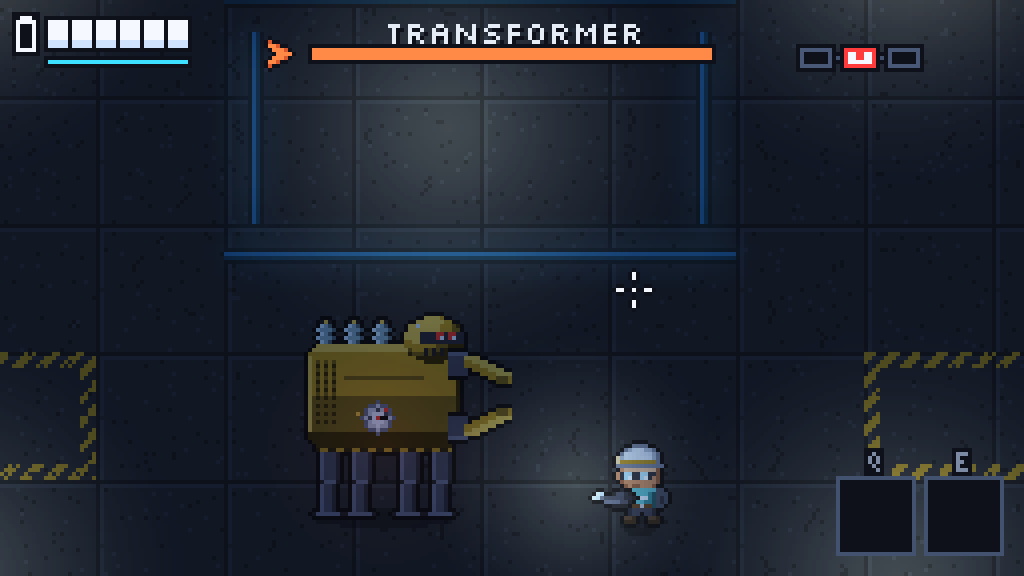
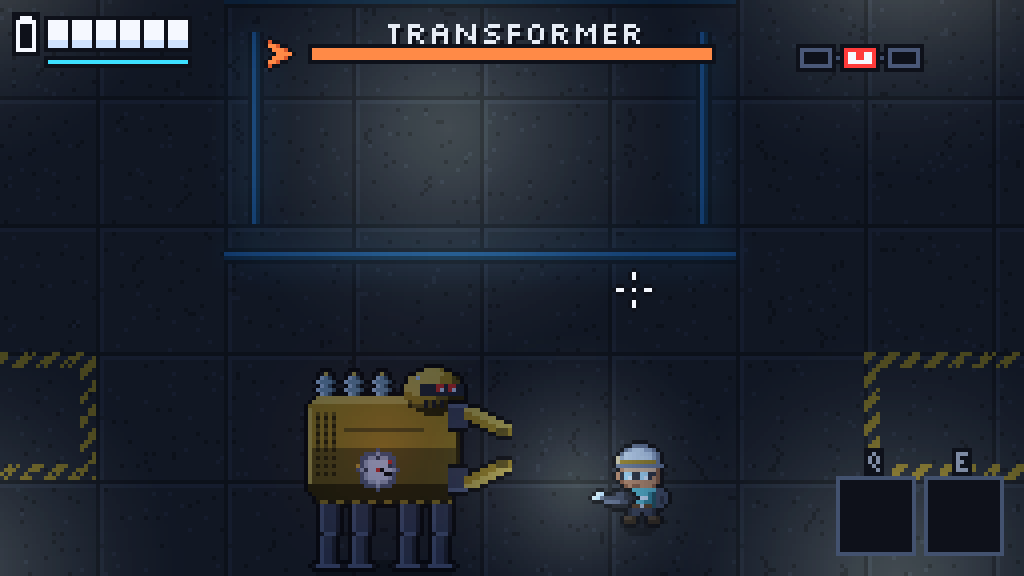
Address review: center each chassis on its hit circle, keep crowns whole
Each chassis gets headroom on its canvas and a feet anchor derived from its
body center, so the hit circle covers the body. The Grid Core's reactor burns
amber instead of Burst magenta, gauges are larger, footfall dust uses each
chassis' feet, and arm recolors are cached by part name.

Changed region(s): [[0.2812, 0.5312, 0.5, 1.0]]

diff --git a/src/overload/art/pixel/regulators.py b/src/overload/art/pixel/regulators.py
@@ -35,14 +35,28 @@ SHELLS = {
     "grid_core": ("px.core.0", "px.core.1", "px.core.2", "px.core.3"),
 }
 SHELLS["regulator"] = SHELLS["linesman"]
-SIZE = (68, 50)
+SIZE = (68, 54)
+HEAD = 4  # headroom above the tallest part (crown, cab, insulators) on rising steps
 CX = 34
 # Per chassis, in the standing pose (a walking body rides a pixel higher on passing steps):
 # where the gauge sits (center, radius), where the protocol arms mount (the right shoulder,
-# mirrored for the left), and how far below the body center its feet are.
-GAUGE = {"linesman": ((CX, 29), 3), "transformer": ((CX - 2, 25), 3), "grid_core": ((CX, 26), 3)}
-SHOULDER = {"linesman": (14, 25), "transformer": (19, 20), "grid_core": (13, 17)}
-FEET = {"linesman": 20, "transformer": 18, "grid_core": 22}
+# mirrored for the left), and the canvas row of the body's center (the Linesman's torso,
+# the Transformer's tank, the Grid Core's sphere). The body center sits on the sim position,
+# so the hit circle covers the body and the legs reach below it.
+GAUGE = {
+    "linesman": ((CX, 29 + HEAD), 4),
+    "transformer": ((CX - 2, 25 + HEAD), 4),
+    "grid_core": ((CX, 29 + HEAD), 3),  # small, under the reactor window
+}
+SHOULDER = {
+    "linesman": (14, 25 + HEAD),
+    "transformer": (19, 20 + HEAD),
+    "grid_core": (13, 17 + HEAD),
+}
+CENTER = {"linesman": 26 + HEAD, "transformer": 20 + HEAD, "grid_core": 18 + HEAD}
+# How far below the sim position the feet (the image's bottom edge) are. The rendered image
+# has a one pixel outline pad, so its bottom is SIZE[1] + 1 rows below the canvas top.
+FEET = {kind: SIZE[1] + 1 - row for kind, row in CENTER.items()}
 _HOSTILE = ("px.hostile.0", "px.hostile.1", "px.hostile.2", "px.hostile.3")
 
 
@@ -96,7 +110,7 @@ _LINESMAN_LEG = rig.LegStyle(
 
 
 def _linesman(canvas, step, charged: bool, overload: bool) -> None:
-    top = 0 if rig.rising(step) else 1
+    top = HEAD + (0 if rig.rising(step) else 1)
     # Two long legs.
     hips = top + 35
     for half, hip in ((0, CX - 8), (1, CX + 4)):
@@ -141,7 +155,7 @@ def _linesman(canvas, step, charged: bool, overload: bool) -> None:
     _rect(canvas, CX - 6, top + 19, 13, 2, "R")
     _rect(canvas, CX - 6, top + 21, 13, 1, "m")
     _disc(canvas, CX + 3, top + 15, 3.2, "v")
-    _disc(canvas, CX + 3, top + 15, 2.0, "e" if overload else "E")
+    _disc(canvas, CX + 3, top + 15, 2.0, "J" if overload else "E")
     paint(canvas, ["w"], CX + 2, top + 14)
     paint(canvas, ["Q"], CX - 4, top + 12)
 
@@ -155,7 +169,7 @@ _TRANSFORMER_LEG = rig.LegStyle(
 
 
 def _transformer(canvas, step, charged: bool, overload: bool) -> None:
-    top = 6 if rig.rising(step) else 7
+    top = HEAD + (6 if rig.rising(step) else 7)
     hips = top + 27
     # Four stubby legs on a trot: diagonal pairs step together.
     for i, hip in enumerate((CX - 16, CX - 8, CX + 4, CX + 12)):
@@ -191,7 +205,7 @@ def _transformer(canvas, step, charged: bool, overload: bool) -> None:
     hx, hy = CX + 5, top - 7
     paint(canvas, shaded_ellipse(15, 12, "RroO"), hx, hy)
     _rect(canvas, hx + 4, hy + 4, 11, 3, "v")
-    eye = "e" if overload else "E"
+    eye = "J" if overload else "E"
     paint(canvas, [eye + eye + "." + eye + eye, eye + "w." + eye + "w"], hx + 8, hy + 4)
     for x in range(hx + 5, hx + 14, 2):
         paint(canvas, ["d", "d"], x, hy + 8)
@@ -205,7 +219,7 @@ def _transformer(canvas, step, charged: bool, overload: bool) -> None:
 
 
 def _grid_core(canvas, step, charged: bool, overload: bool) -> None:
-    top = 4 if rig.rising(step) else 5
+    top = HEAD + (4 if rig.rising(step) else 5)
     center = (CX, top + 13)
     # Three arched legs, lifting one at a time.
     for i, (hip, knee, foot) in enumerate(
@@ -238,13 +252,15 @@ def _grid_core(canvas, step, charged: bool, overload: bool) -> None:
     for x in range(CX - 11, CX + 12, 4):
         paint(canvas, ["d"], x, top + 16)
     glow = 4.6 if (charged or overload) else 3.6
-    _disc(canvas, center[0] + 1, center[1] - 2, glow + 1.2, "d")
-    _disc(canvas, center[0] + 1, center[1] - 2, glow, "U")
-    _disc(canvas, center[0] + 1, center[1] - 2, glow - 1.8, "u")
-    paint(canvas, ["w"], center[0], center[1] - 3)
+    # The reactor burns hot amber, kept off Burst's magenta so it never reads as a Burst
+    # core to steal (art direction rule 4). Only its crown tips carry magenta, as before.
+    _disc(canvas, center[0] + 1, center[1] - 3, glow + 1.2, "d")
+    _disc(canvas, center[0] + 1, center[1] - 3, glow, "j")
+    _disc(canvas, center[0] + 1, center[1] - 3, glow - 1.8, "J")
+    paint(canvas, ["w"], center[0], center[1] - 4)
     # A ring of eyes above the core.
     for dx, dy in ((-7, -6), (-3, -9), (5, -9), (9, -6)):
-        paint(canvas, ["e" if overload else "E"], center[0] + dx, center[1] + dy)
+        paint(canvas, ["J" if overload else "E"], center[0] + dx, center[1] + dy)
     if overload:  # glowing cracks through the shell
         for x, y in ((-10, -4), (-9, -3), (-9, -2), (-8, -1), (8, 2), (9, 3), (10, 4), (-6, 6)):
             paint(canvas, ["E"], center[0] + x, center[1] + y)
@@ -262,9 +278,18 @@ def body(kind: str, step: int | None = None, charged: bool = False, overload: bo
     return render(rows_of(canvas), legend(kind))
 
 
+_ARMS = {
+    "clamp": actors.clamp_arm,
+    "plate": actors.insulate_plate,
+    "fin": lambda: actors.fin(False),
+    "fin_lit": lambda: actors.fin(True),
+}
+
+
 @cache
-def _recolored(image: pygame.Surface, kind: str) -> pygame.Surface:
+def _recolored(part: str, kind: str) -> pygame.Surface:
     """A protocol arm in this chassis' shell colors (the arms are drawn in hostile orange)."""
+    image = _ARMS[part]()
     if SHELLS[kind] == _HOSTILE:
         return image
     swapped = image.copy()
@@ -285,15 +310,15 @@ def _posed(
     sx, sy = CX + 1 + dx, dy + 1 + _bob(step)
     front = []  # drawn over the body
     if protocol == "clamp":
-        arm = _recolored(actors.clamp_arm(), kind)
+        arm = _recolored("clamp", kind)
         front.append((arm, (sx - 3, sy - arm.get_height() // 2)))
     elif protocol == "insulate":
-        plate = _recolored(actors.insulate_plate(), kind)
+        plate = _recolored("plate", kind)
         pw, ph = plate.get_size()
         front.append((plate, (sx - 2, sy - ph // 2 + 2)))
         canvas.blit(plate, (2 * CX + 2 - sx - pw + 2, sy - ph // 2 + 2))
     elif protocol == "oscillate":
-        right = _recolored(actors.fin(lit), kind)
+        right = _recolored("fin_lit" if lit else "fin", kind)
         fw, fh = right.get_size()
         front.append((right, (sx - 1, sy - fh // 2)))
         canvas.blit(flipped(right), (2 * CX + 2 - sx - fw + 1, sy - fh // 2))

diff --git a/tests/test_pixel_art.py b/tests/test_pixel_art.py
@@ -513,3 +513,59 @@ def test_footfalls_kick_dust_and_short_moves_are_walks(headless_pygame) -> None:
     view._walk(world)
     assert view.gaits[9].stride > 0
     assert view.gaits[9].dx > 0, "faces the way it walked"
+
+
+def test_each_chassis_body_sits_on_its_hit_circle(headless_pygame) -> None:
+    """Drawn at its feet anchor, each chassis' body center lands on the sim position, so
+    shots that visibly hit the body hit the circle. Measured on the body's own colors."""
+    from overload.art.pixel import regulators
+    from overload.game.view import RIVAL_FEET
+
+    for kind in regulators.KINDS:
+        image = regulators.body(kind)
+        shell = {rgb(token) for token in regulators.SHELLS[kind]}
+        rows = [
+            y
+            for y in range(image.get_height())
+            for x in range(image.get_width())
+            if tuple(image.get_at((x, y)))[:3] in shell
+        ]
+        center = (min(rows) + max(rows)) / 2  # the shell's extent
+        offset = RIVAL_FEET[kind] - (image.get_height() - center)  # body center below sim y
+        assert abs(offset) <= 6, (kind, offset)
+
+
+def test_no_chassis_is_cut_off_at_the_top(headless_pygame) -> None:
+    from overload.art.pixel import regulators
+
+    for kind in regulators.KINDS:
+        for step in (None, *range(8)):
+            for charged in (False, True):
+                image = regulators.body(kind, step, charged)
+                # Row 1 is the canvas' first row (row 0 is the outline pad). Only the
+                # outline of something below may reach it, never the art itself.
+                top = {
+                    tuple(image.get_at((x, 1)))
+                    for x in range(image.get_width())
+                    if image.get_at((x, 1)).a
+                }
+                assert top <= {(*rgb("px.outline"), 255)}, (kind, step)
+
+
+def test_the_legacy_regulator_draws_as_the_linesman(headless_pygame) -> None:
+    from overload.art.pixel import regulators
+
+    a = regulators.regulator("clamp", False, 0.3, kind="regulator")
+    b = regulators.regulator("clamp", False, 0.3, kind="linesman")
+    assert pygame.image.tobytes(a, "RGBA") == pygame.image.tobytes(b, "RGBA")
+
+
+def test_the_regulator_steps_forward_when_it_walks_forward() -> None:
+    from overload.game.view import Gait, rival_step
+
+    right = Gait(0.0, 0.0, stride=5.0, moved=1.0, dx=1.0)
+    assert rival_step(right, facing_left=False) == rival_step(
+        Gait(0.0, 0.0, stride=5.0, moved=1.0, dx=-1.0), facing_left=True
+    )
+    vertical = Gait(0.0, 0.0, stride=5.0, moved=1.0, dx=0.01)  # inside the dead zone
+    assert rival_step(vertical, False) == rival_step(vertical, True)

diff --git a/src/overload/game/view.py b/src/overload/game/view.py
@@ -108,7 +108,7 @@ SCAN = (0, 1, 2, 3, 3, 2, 1, 0)  # the Sentry's eye sweeping its visor
 RECOIL_TICKS = 12
 BEAM_TICKS = 10
 # Heavy walkers kick up dust when a foot comes down: (kind, feet below center, dust count).
-FOOTFALLS = {"breaker": (12, 3), "regulator": (20, 5)}
+FOOTFALLS = {"breaker": (12, 3), "regulator": (20, 5)}  # the Regulator's feet: per chassis
 FOOT_DOWN = (2, 6)  # the walk steps where a foot lands (art/pixel/rig.py)
 
 
@@ -354,6 +354,8 @@ class PixelView:
             step = walk_step(gait, kind)
             if kind in FOOTFALLS and step != self.steps.get(key) and step in FOOT_DOWN:
                 feet, count = FOOTFALLS[kind]
+                if key == RIVAL_GAIT:
+                    feet = RIVAL_FEET.get(world.rival.kind, feet)
                 self._burst(x, y + feet, count, "px.wall.3", 0.5)
             self.steps[key] = step
         for key in list(self.gaits):
@@ -815,7 +817,7 @@ class PixelView:
                     icon = pygame.transform.scale_by(
                         effects.protocol_icon(POSES[rival.protocol]), 2
                     )
-                    top = v(rival.x, rival_feet[1] - image.get_height() - 6)
+                    top = v(rival.x, rival_feet[1] - image.get_height() - 4)
                     screen.blit(icon, icon.get_rect(center=(round(top[0]), round(top[1]))))
 
             drawables.append((rival_feet[1], draw_rival))

diff --git a/docs/ART_AND_AUDIO_DIRECTION.md b/docs/ART_AND_AUDIO_DIRECTION.md
@@ -136,8 +136,8 @@ Status: **done** means drawn, in the game or style frame, and on the contact she
 | ID | Asset | Look | Motion and tells | Pri | Status |
 | --- | --- | --- | --- | --- | --- |
 | CH-01 | Surge | Lineworker: white hard hat with a headlamp and reflective band, goggles, teal jacket with a reflective strip, utility belt, battery pack with two power sockets, siphon glove, spark caster | 2-frame idle, 4-frame walk, dodge ghosts, hit flicker, headlamp light follows the aim | P0 | Done |
-| CH-02 | Regulator | Orange machine with a big gauge face, ceramic insulator shoulders, vents, status lights, hazard-striped hip, treads. The needle tracks the Surge | Pose per protocol, protocol boot cue | P0 | Done (poses and boot cue: shield ring, protocol icon and sting) |
-| CH-02d | Regulator chassis (Nov 17, redrawn the same night) | One chassis per sector chamber, each with its own silhouette (Adit: "hate the main bosses"). Linesman: a tall orange biped with a utility pole crossarm of three insulators over a hooded lamp head, whose insulator tips light before its ring. Transformer: a wide brass quadruped tank with radiator fins, coil bands, three bushings and a cab head on its front corner, whose bushings light before its quake. Grid Core: a violet reactor sphere with a crown of magenta pylons, a ring of eyes and a magenta core window, on three arched legs. Overloaded, its shell cracks with red light and its core blazes. The protocol arms (pincers, plates, fins) take each shell's colors and the gauge stays on every chassis, so it reads as the same rival | Walk cycles, protocol pose, signature charge, overload | P0 | Done |
+| CH-02 | Regulator | One rival on three chassis (CH-02d), each walking on its own legs. Every chassis keeps a gauge with a needle that tracks the Surge (radius 4 on the Linesman and Transformer, 3 under the Grid Core's reactor window, about 16 directions), and the protocol arms below. The Grid Core's reactor burns hot amber, kept off Burst's magenta so the boss never reads as a Burst core to steal | Pose per protocol, protocol boot cue, signature charge | P0 | Done (redrawn Nov 18) |
+| CH-02d | Regulator chassis (Nov 17, redrawn the same night) | One chassis per sector chamber, each with its own silhouette (Adit: "hate the main bosses"). Linesman: a tall orange biped with a utility pole crossarm of three insulators over a hooded lamp head, whose insulator tips light before its ring. Transformer: a wide brass quadruped tank with radiator fins, coil bands, three bushings and a cab head on its front corner, whose bushings light before its quake. Grid Core: a violet reactor sphere with a crown of magenta-tipped pylons, a ring of eyes and a hot amber reactor window, on three arched legs. Overloaded, its shell cracks with red light, its eyes and core burn hotter. The protocol arms (pincers, plates, fins) take each shell's colors and the gauge stays on every chassis, so it reads as the same rival | Walk cycles, protocol pose, signature charge, overload | P0 | Done |
 | CH-02a | Clamp protocol | Pincers forward | Lunge with a filling tell, then recovery | P0 | Done |
 | CH-02b | Insulate protocol | Hatched shield plates on both sides | Backs off, lays hatched hazard tiles, slow orbs | P0 | Done |
 | CH-02c | Oscillate protocol | Side thruster fins | Strafes, fins flash before a volley | P0 | Done (fins flash during the volley tell, with the aim line and ring) |
